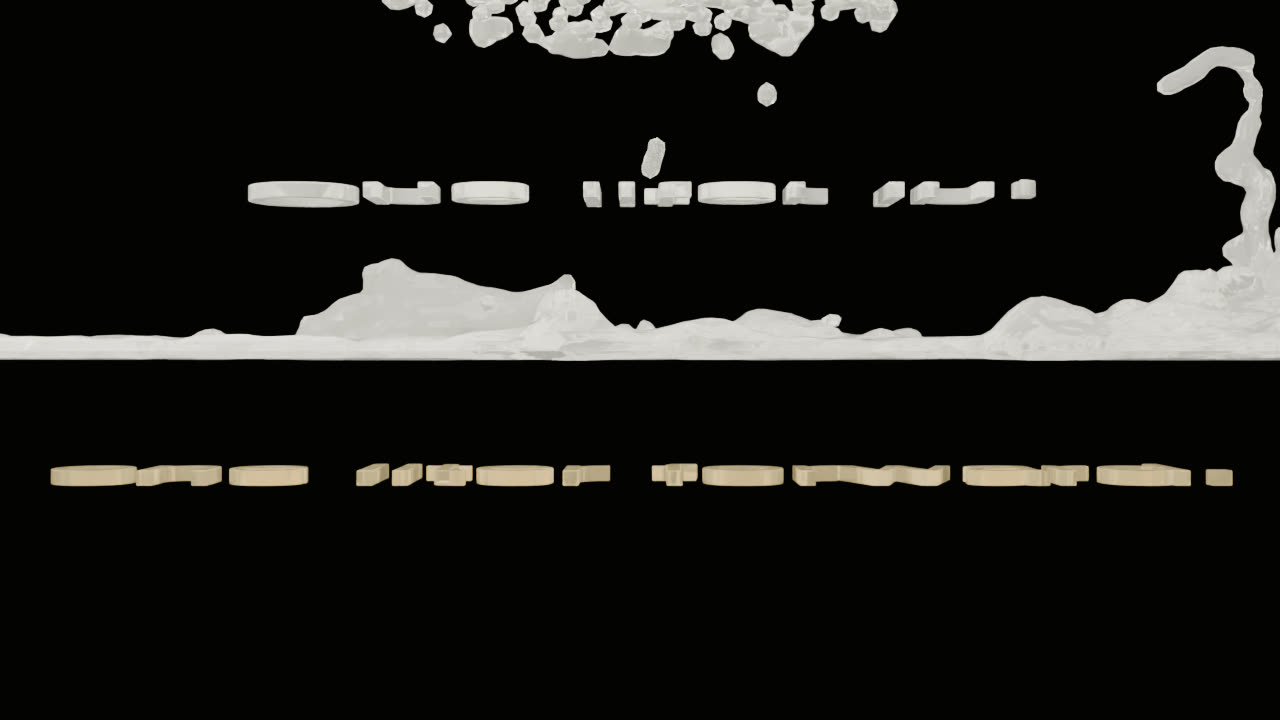
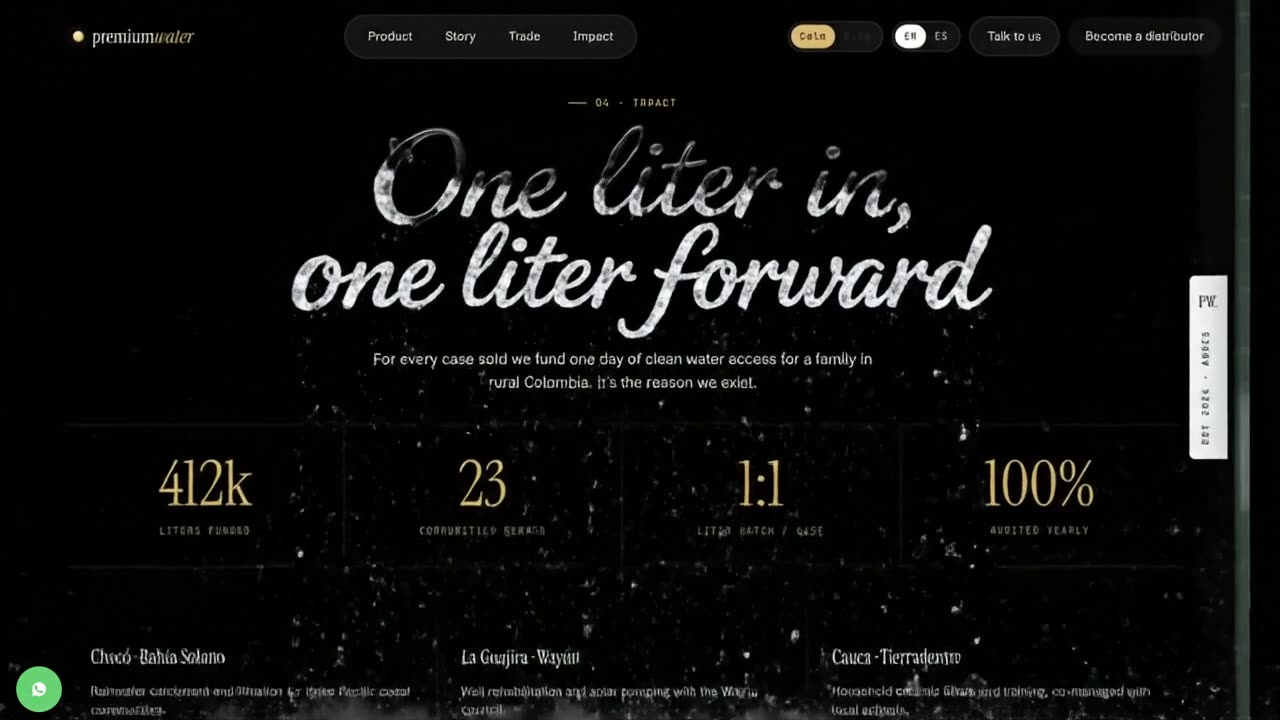
Calm waterfall: swap in user-provided water-script transition video
User shipped a complete transition video ("Water Shapes One Liter
Forward.mp4") — 8s at 1280x720 — showing trade content fading,
water cascading down as a curtain, then "One liter in, one liter
forward" rendered as gorgeous glassy water-script in the impact
hero position.

  - assets/water-trails.mp4: re-encoded with web-optimized H.264
    (faststart, 0.5s keyframe interval, no audio). 2.4MB.
  - assets/water-trails-poster.jpg: poster from frame ~5s, captures
    the water-script headline at its hero moment.
  - HTML overlay headline (.calm-waterfall-headline): display:none.
    The headline is now BAKED into the video as water-script — the
    HTML overlay would duplicate visually. Real #impact .h-display
    below the band stays in markup for accessibility/SEO.

Cache busted: water-trails.mp4?v=2, styles.css?v=93.

diff --git a/b2b-lead-generation-site-for-a-premium-brand/project/site-v3/styles.css b/b2b-lead-generation-site-for-a-premium-brand/project/site-v3/styles.css
@@ -1355,12 +1355,18 @@ main#top { position: relative; z-index: 2; }
    #impact .h-display takes over (fully accessible HTML headline).
 */
 .calm-waterfall-headline {
+  /* DISABLED — the new "Water Shapes One Liter Forward" video has the
+     headline baked in as glassy water-script. The HTML overlay would
+     duplicate. Kept in the markup as aria-hidden for the accessibility
+     fallback path; visibility:hidden so it occupies layout but never
+     shows on screen. The real #impact .h-display below the band stays
+     accessible. */
+  display: none;
   position: absolute;
   inset: 0;
-  display: flex;
-  align-items: flex-end;        /* sit at the bottom of the band */
+  align-items: flex-end;
   justify-content: center;
-  padding: 0 6vw 8vh 6vw;       /* breathe in from the band edges */
+  padding: 0 6vw 8vh 6vw;
   pointer-events: none;
   z-index: 2;
   /* Fade out cleanly as the band exits so the real #impact headline
@@ -1469,7 +1475,7 @@ main#top { position: relative; z-index: 2; }
   .calm-waterfall-stage {
     background:
       var(--bg-d, #0E0C08)
-      url('assets/water-trails-poster.jpg?v=1')
+      url('assets/water-trails-poster.jpg?v=2')
       center / contain
       no-repeat;
   }

diff --git a/b2b-lead-generation-site-for-a-premium-brand/project/site-v3/index.html b/b2b-lead-generation-site-for-a-premium-brand/project/site-v3/index.html
@@ -49,7 +49,7 @@
   <link rel="preconnect" href="https://fonts.googleapis.com" />
   <link rel="preconnect" href="https://fonts.gstatic.com" crossorigin />
   <link href="https://fonts.googleapis.com/css2?family=Instrument+Serif:ital@0;1&family=Schibsted+Grotesk:wght@400;500;600;700&family=Anton&family=JetBrains+Mono:wght@400;500&display=swap" rel="stylesheet" />
-  <link rel="stylesheet" href="styles.css?v=92" />
+  <link rel="stylesheet" href="styles.css?v=93" />
   <!-- model-viewer is lazy-loaded by app.js the first time bold mode is activated, so calm-only visitors don't pay the cost. -->
 </head>
 <body>
@@ -397,8 +397,8 @@
   <section class="calm-water-transition" id="calmWaterFall" aria-hidden="true">
     <div class="calm-waterfall-stage">
       <video class="calm-waterfall-video" id="calmWaterfallVideo"
-             src="assets/water-trails.mp4?v=1"
-             poster="assets/water-trails-poster.jpg?v=1"
+             src="assets/water-trails.mp4?v=2"
+             poster="assets/water-trails-poster.jpg?v=2"
              muted playsinline preload="auto" disablePictureInPicture></video>
       <div class="calm-waterfall-vignette" aria-hidden="true"></div>
 